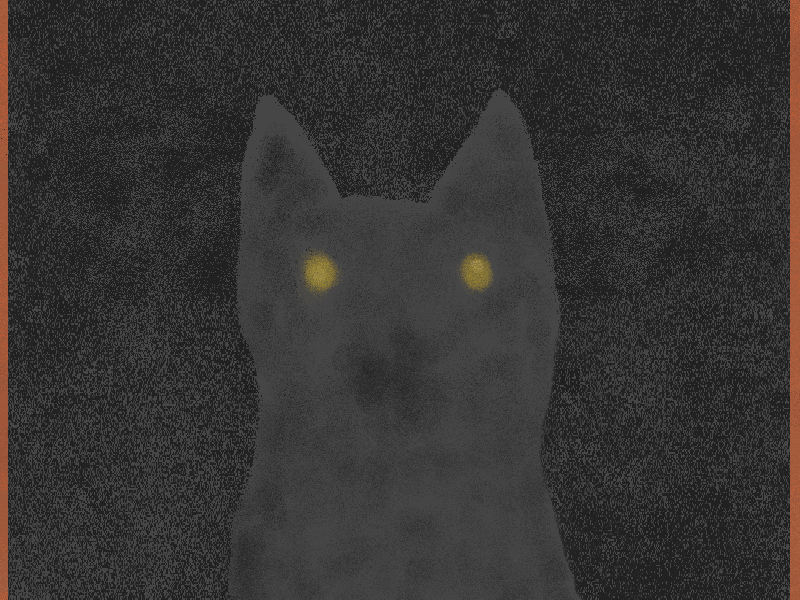
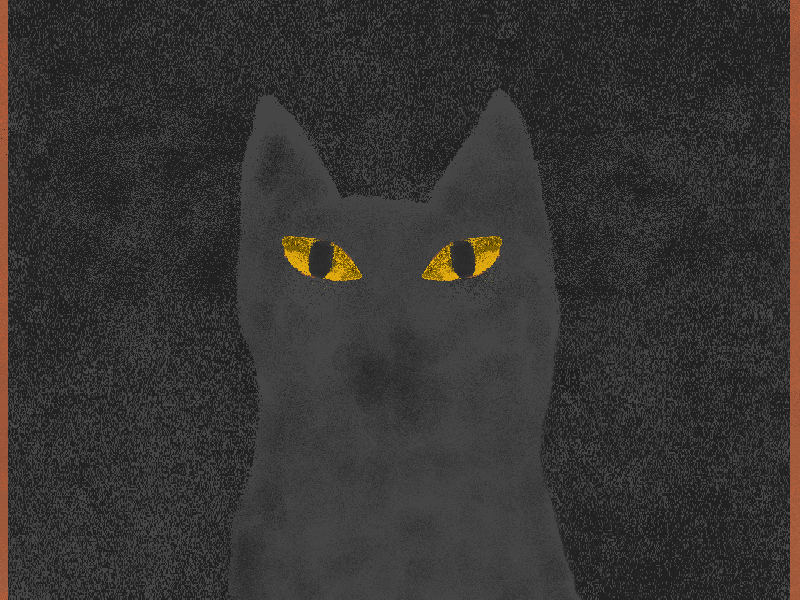
bouda hotova, liska ve hre zatim neni s texturou

Changed region(s): [[0.3438, 0.39, 0.4688, 0.51], [0.5312, 0.39, 0.625, 0.48]]

diff --git a/hra.py b/hra.py
@@ -2306,7 +2306,7 @@ while hra is True:
     hrac_obrazovka_x = hrac_pozice_x - kamera_x
     
     if mazlicek_equipped and (pozadi == rozcestnik or pozadi == garaz or pozadi == venek):
-        pygame.draw.rect(okno, cerna, (hrac_obrazovka_x + 20, 400, 50, 50))
+        pygame.draw.rect(okno, cerna, (hrac_obrazovka_x - 60, hrac_pozice_y + 95, 90, 46))
     
     if mazlicek_equipped and pozadi == bouda_odemcena and not inventar:
         pygame.draw.rect(okno, cerna, (za_unequip_tlacitko))
